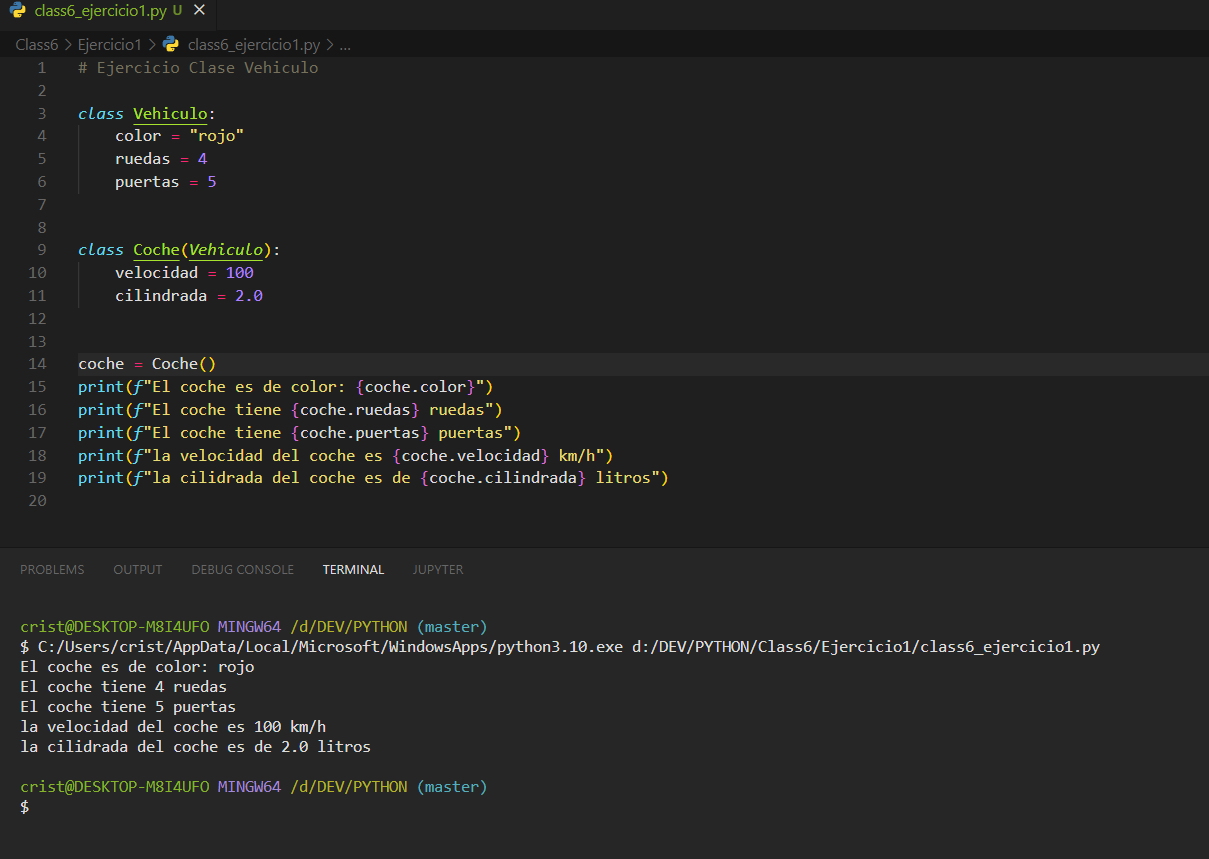
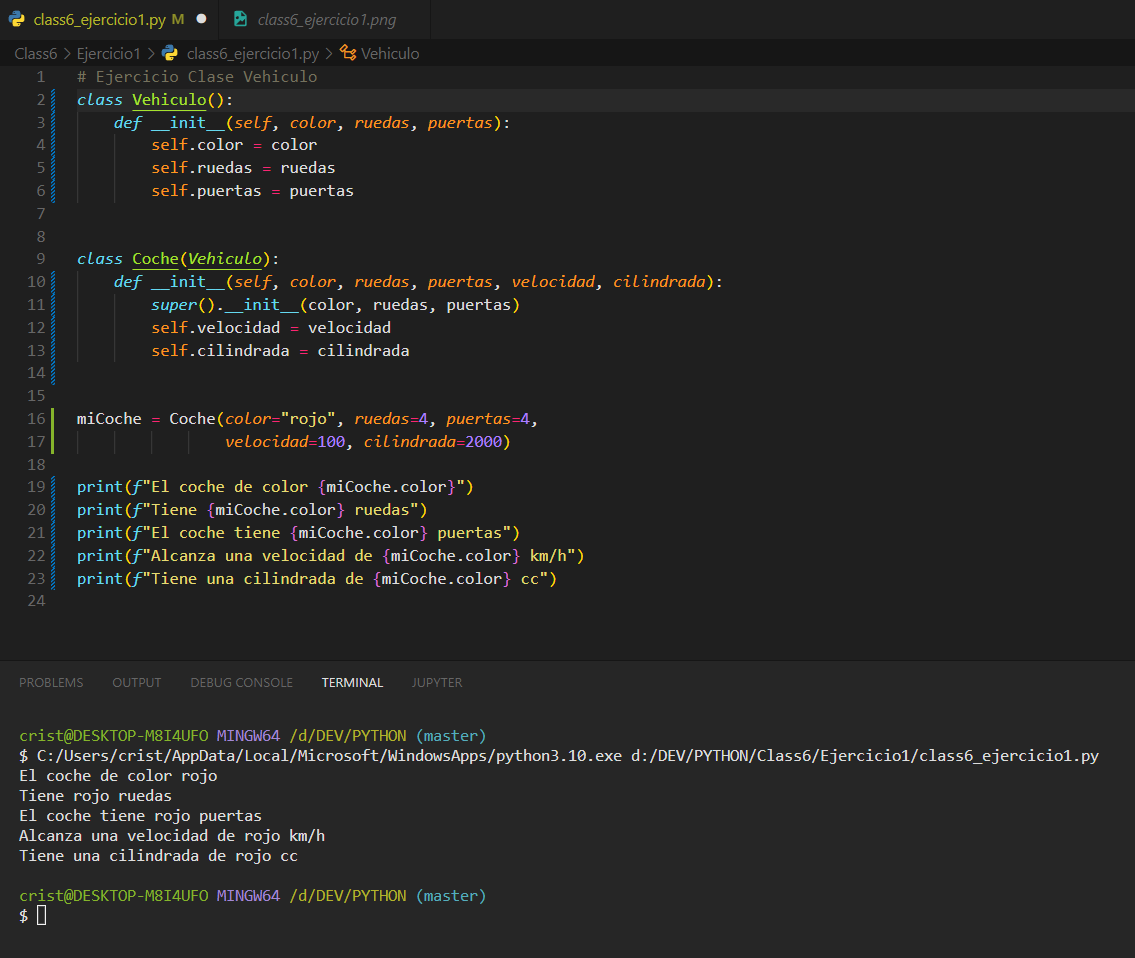
Class6_ejercicio1 mejorado

diff --git a/Class6/Ejercicio1/class6_ejercicio1.py b/Class6/Ejercicio1/class6_ejercicio1.py
@@ -1,19 +1,23 @@
 # Ejercicio Clase Vehiculo
-
-class Vehiculo:
-    color = "rojo"
-    ruedas = 4
-    puertas = 5
+class Vehiculo():
+    def __init__(self, color, ruedas, puertas):
+        self.color = color
+        self.ruedas = ruedas
+        self.puertas = puertas
 
 
 class Coche(Vehiculo):
-    velocidad = 100
-    cilindrada = 2.0
+    def __init__(self, color, ruedas, puertas, velocidad, cilindrada):
+        super().__init__(color, ruedas, puertas)
+        self.velocidad = velocidad
+        self.cilindrada = cilindrada
 
 
-coche = Coche()
-print(f"El coche es de color: {coche.color}")
-print(f"El coche tiene {coche.ruedas} ruedas")
-print(f"El coche tiene {coche.puertas} puertas")
-print(f"la velocidad del coche es {coche.velocidad} km/h")
-print(f"la cilidrada del coche es de {coche.cilindrada} litros")
+miCoche = Coche(color="rojo", ruedas=4, puertas=4,
+                velocidad=100, cilindrada=2000)
+
+print(f"El coche de color {miCoche.color}")
+print(f"Tiene {miCoche.color} ruedas")
+print(f"El coche tiene {miCoche.color} puertas")
+print(f"Alcanza una velocidad de {miCoche.color} km/h")
+print(f"Tiene una cilindrada de {miCoche.color} cc")
